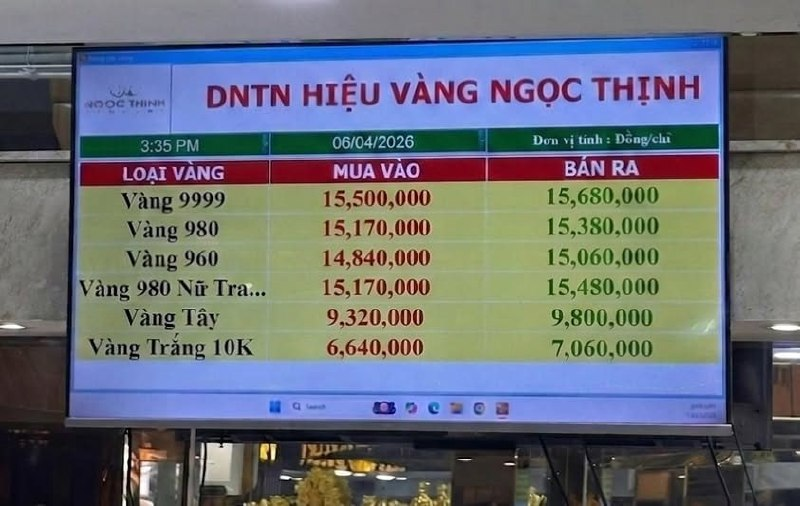
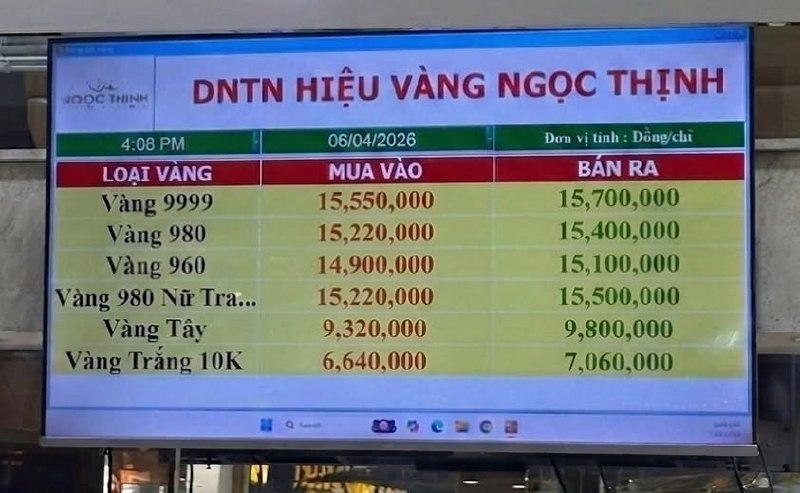
Update ngoc-thinh price image (16:25)

diff --git a/app/data/goldShops.ts b/app/data/goldShops.ts
@@ -19,7 +19,7 @@ export const GOLD_SHOPS: GoldShop[] = [
     name: "Ngọc Thịnh",
     location: "Đà Nẵng",
     image: "images/ngoc-thinh.jpg",
-    updatedAt: "15:39",
+    updatedAt: "16:25",
   },
   {
     id: "kim-khanh-viet-hung",
